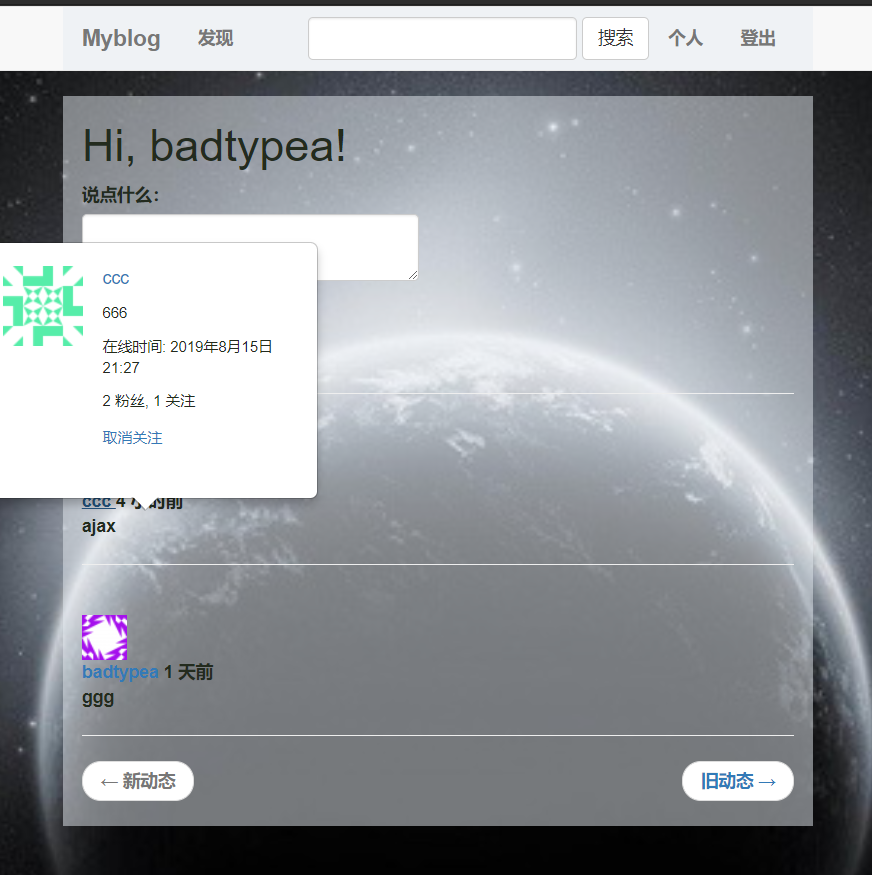
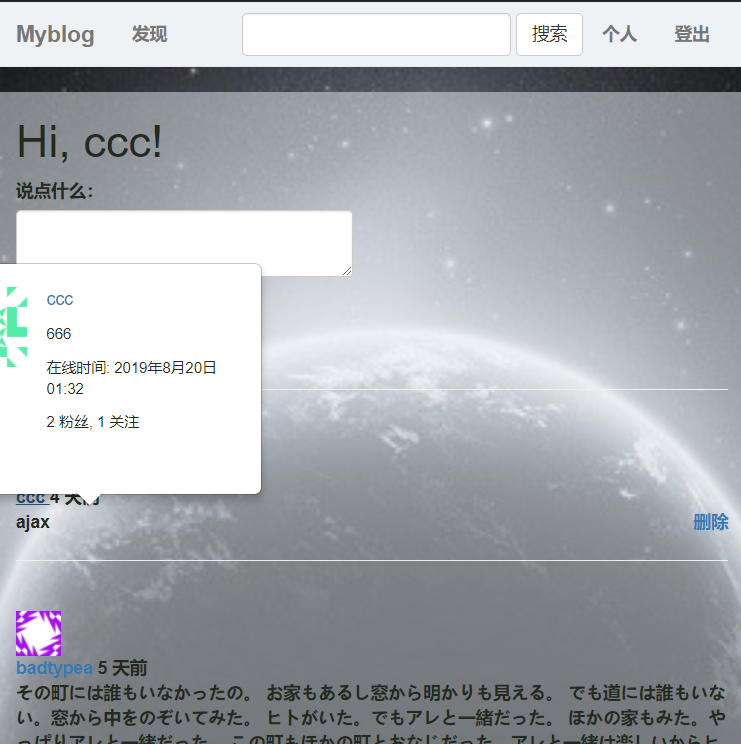
动态删除

diff --git a/app/templates/_post.html b/app/templates/_post.html
@@ -24,6 +24,12 @@
             {{ moment(post.timestamp).fromNow() }}：
             <br>
             {{ post.body }}
+            
+            {% if current_user==post.author %}
+            <div class="col-mde-3 pull-right">
+                <a href="{{ url_for('main.delete_post', post_id=post.id, username=post.author.username) }}">删除</a>
+            </div>
+            {% endif %}
         </td>
     </tr>
 </table>

diff --git a/app/main/routes.py b/app/main/routes.py
@@ -131,6 +131,14 @@ def pop_up(username):
     user = User.query.filter_by(username=username).first_or_404()
     return render_template('pop_up.html', user=user)
 
-
+@bp.route('/post/<username>/<int:post_id>/delete')
+@login_required
+def delete_post(username, post_id):
+    user = User.query.filter_by(username=username).first_or_404()
+    if user==current_user and post_id:
+        post = Post.query.filter_by(id=post_id, user_id=current_user.id).first()
+        db.session.delete(post)    
+        db.session.commit()
+    return redirect(url_for('main.user', username=username))
 
 
